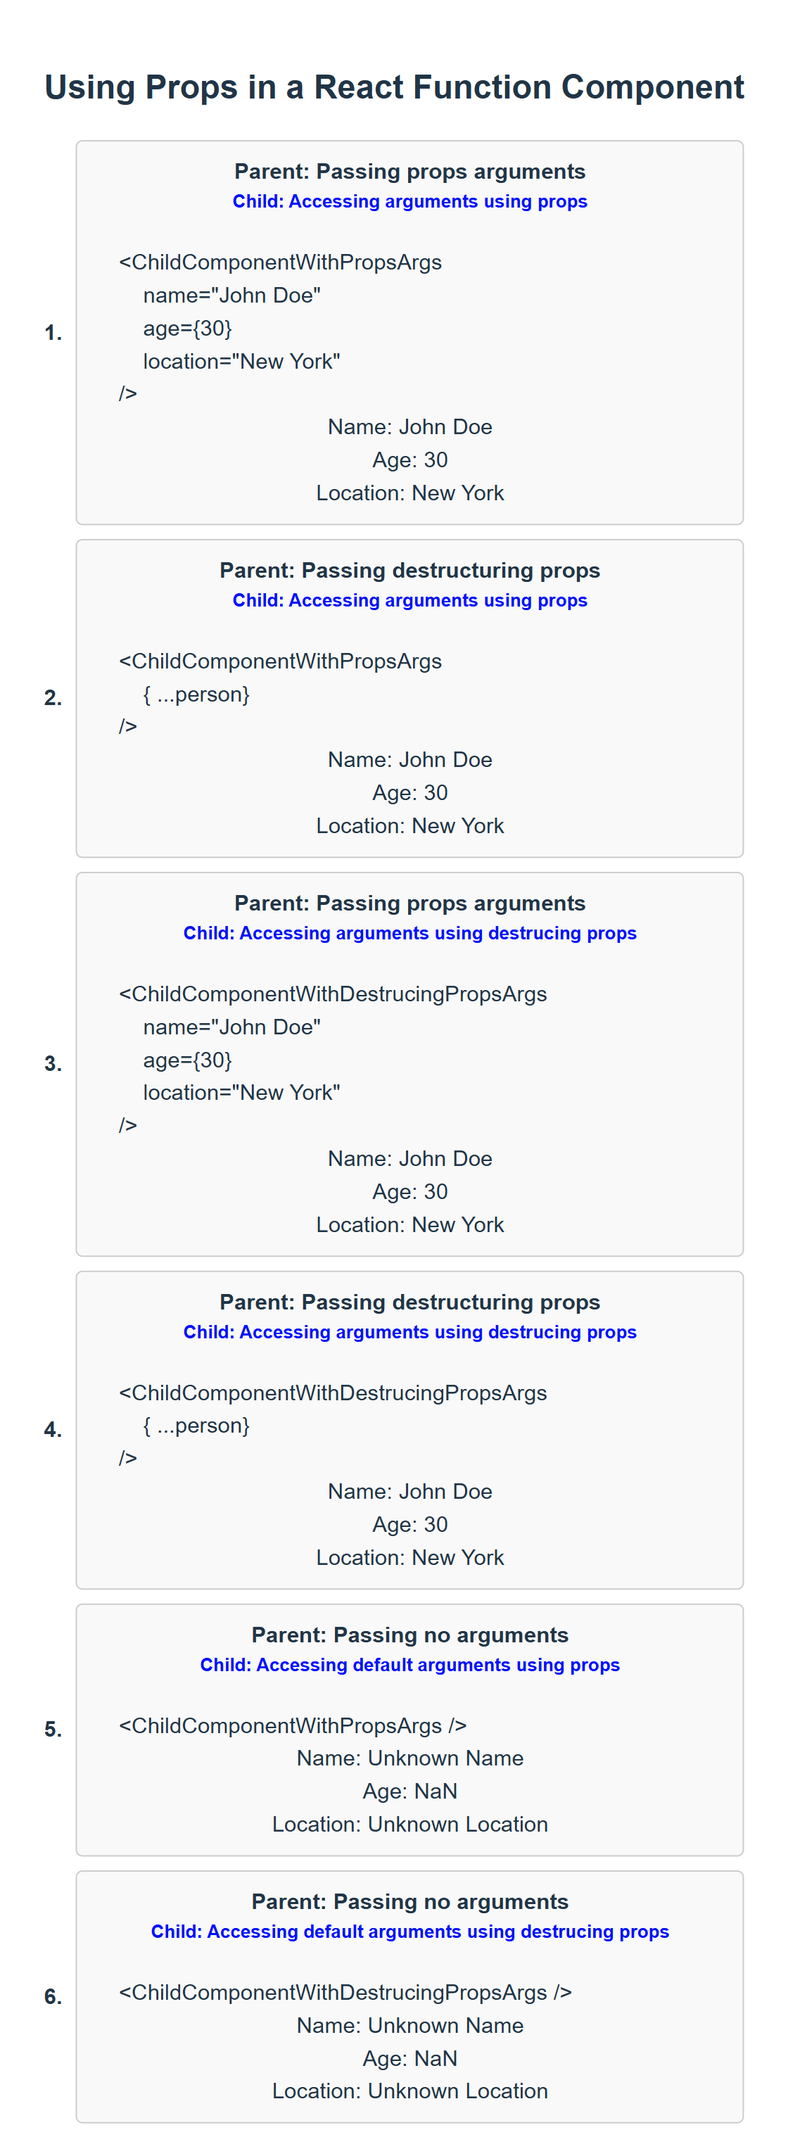
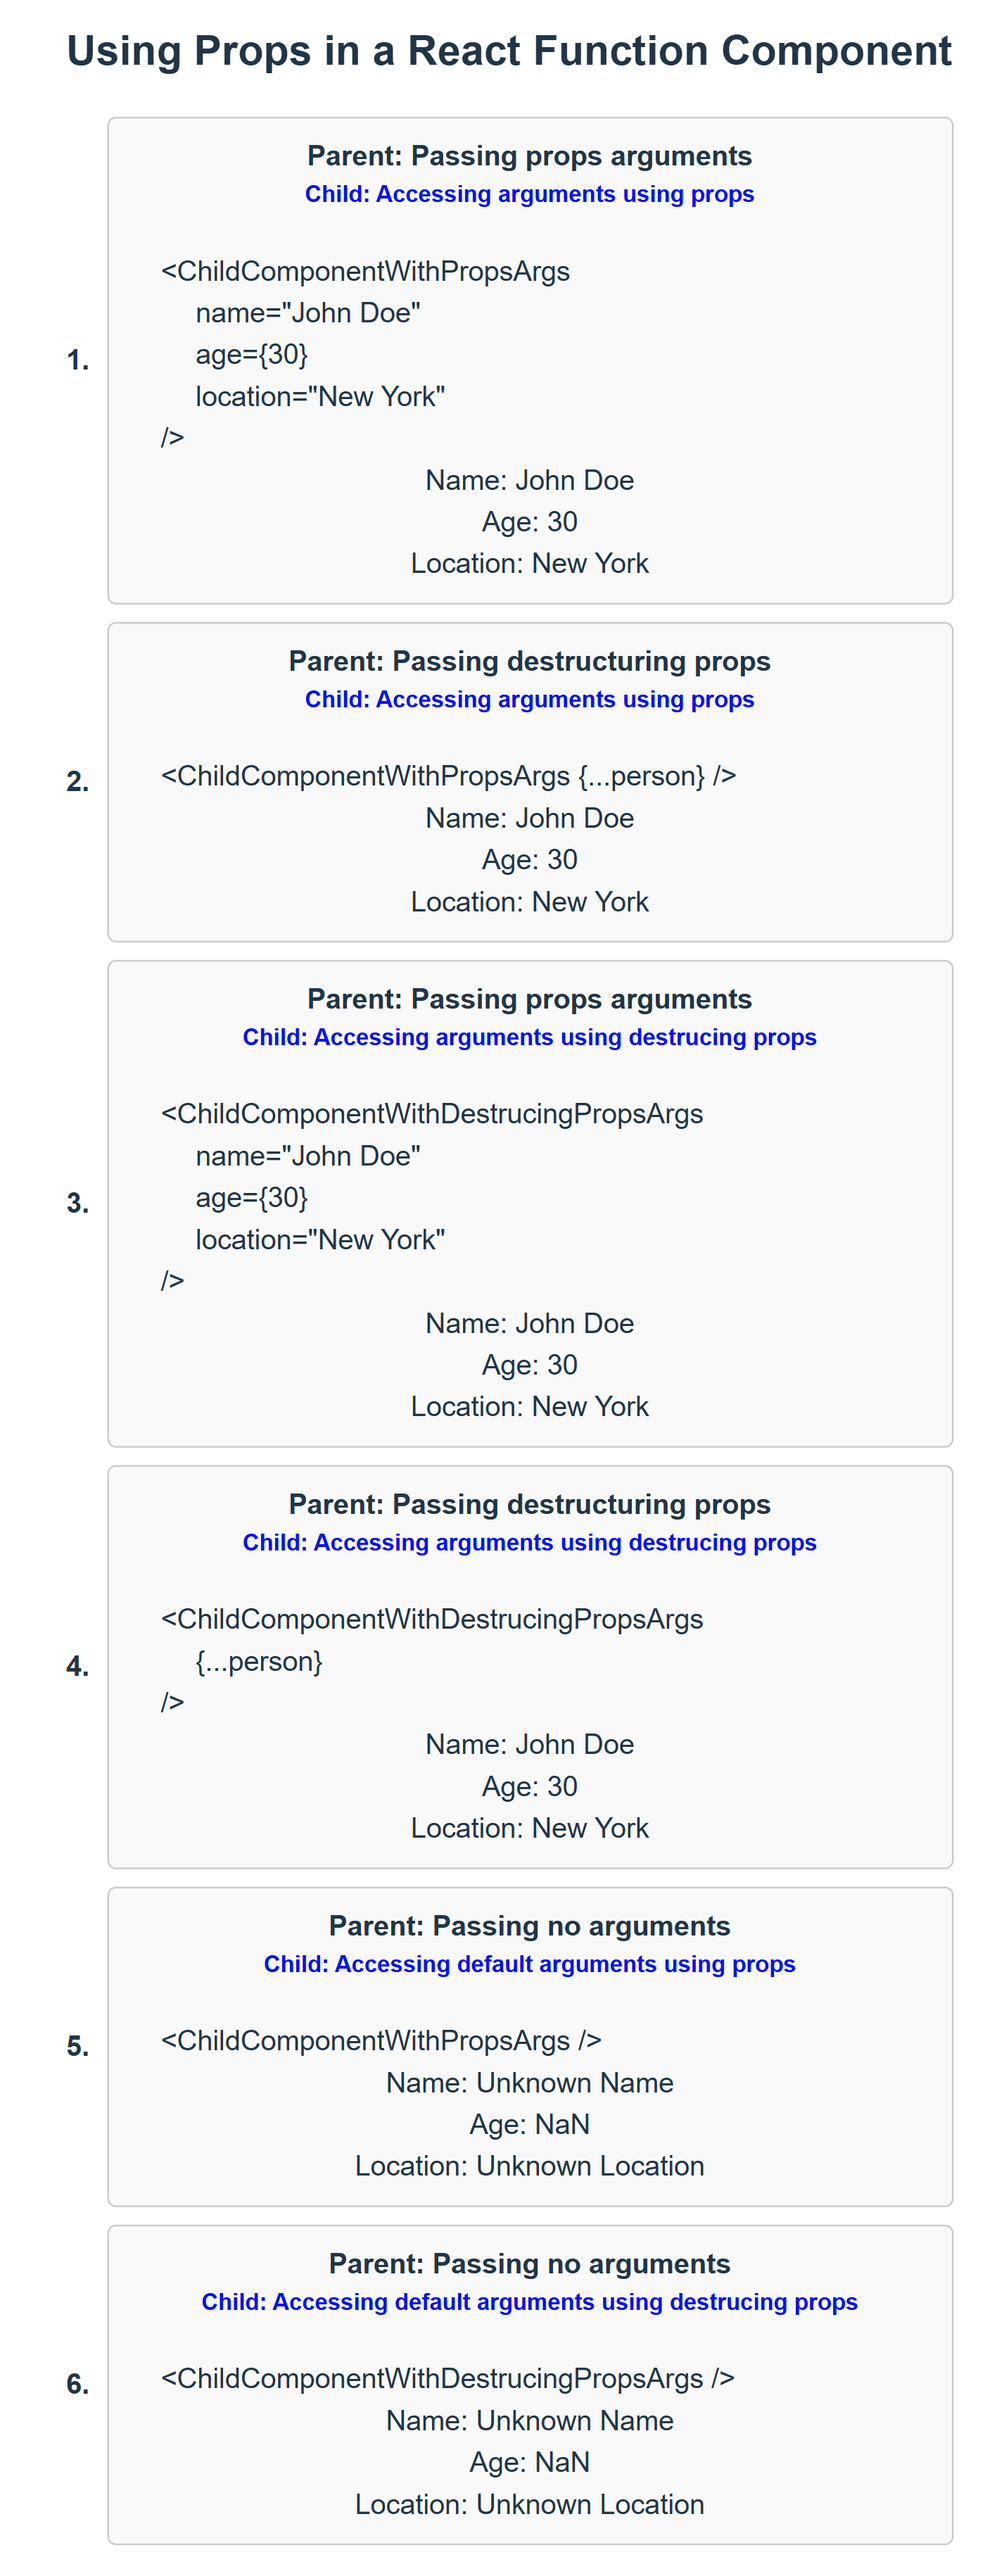
Add files via upload

diff --git a/docs/react-app-ts/tut05-function-components-props.rst b/docs/react-app-ts/tut05-function-components-props.rst
@@ -316,17 +316,17 @@ In React, passing and accessing props in a function component is simple and stra
           
     - Create a parent function Component passing props to its child component
         
-        .. code-block:: cfg
+        .. code-block:: tsx
           :caption: src/FunctionComponentsDisplay.tsx
           :linenos:
           
-          import React from "react";
+          import { FC } from "react";
           import ChildComponentWithDestrucingPropsArgs from "./ChildComponentWithDestrucingPropsArgs";
           import ChildComponentWithPropsArgs from "./ChildComponentWithPropsArgs";
           import Person from "./Person";
           import "./list-style.css";
           
-          const FunctionComponentsDisplay: React.FC = () => {
+          const FunctionComponentsDisplay: FC = () => {
             const person: Person = {
               name: "John Doe",
               age: 30,
@@ -343,15 +343,15 @@ In React, passing and accessing props in a function component is simple and stra
                       <h5 className="blue-color" style={{ marginTop: "0px" }}>
                         Child: Accessing arguments using props
                       </h5>
-          
                       <div style={{ textAlign: "left", paddingLeft: "20px" }}>
-                        &lt;ChildComponentWithPropsArgs <br />
-                        &nbsp;&nbsp;&nbsp;&nbsp;name=&quot;John Doe&quot; <br />
-                        &nbsp;&nbsp;&nbsp;&nbsp;age=&#123;30&#125; <br />
-                        &nbsp;&nbsp;&nbsp;&nbsp;location=&quot;New York&quot; <br />
-                        /&gt;
+                        <div>{`<ChildComponentWithPropsArgs`}</div>
+                        <div style={{ textAlign: "left", marginLeft: "20px" }}>
+                          <div>{`name="John Doe"`}</div>
+                          <div>{`age={30}`}</div>
+                          <div>{`location="New York"`}</div>
+                        </div>
+                        <div>{`/>`}</div>
                       </div>
-          
                       <div>
                         <ChildComponentWithPropsArgs
                           name="John Doe"
@@ -368,13 +368,9 @@ In React, passing and accessing props in a function component is simple and stra
                       <h5 className="blue-color" style={{ marginTop: "0px" }}>
                         Child: Accessing arguments using props
                       </h5>
-          
                       <div style={{ textAlign: "left", paddingLeft: "20px" }}>
-                        &lt;ChildComponentWithPropsArgs <br />
-                        &nbsp;&nbsp;&nbsp;&nbsp;&#123; ...person&#125; <br />
-                        /&gt;
+                        <div>{`<ChildComponentWithPropsArgs {...person} />`}</div>
                       </div>
-          
                       <div>
                         <ChildComponentWithPropsArgs {...person} />
                       </div>
@@ -387,15 +383,15 @@ In React, passing and accessing props in a function component is simple and stra
                       <h5 className="blue-color" style={{ marginTop: "0px" }}>
                         Child: Accessing arguments using destrucing props
                       </h5>
-          
                       <div style={{ textAlign: "left", paddingLeft: "20px" }}>
-                        &lt;ChildComponentWithDestrucingPropsArgs <br />
-                        &nbsp;&nbsp;&nbsp;&nbsp;name=&quot;John Doe&quot; <br />
-                        &nbsp;&nbsp;&nbsp;&nbsp;age=&#123;30&#125; <br />
-                        &nbsp;&nbsp;&nbsp;&nbsp;location=&quot;New York&quot; <br />
-                        /&gt;
+                        <div>{`<ChildComponentWithDestrucingPropsArgs`}</div>
+                        <div style={{ textAlign: "left", marginLeft: "20px" }}>
+                          <div>{`name="John Doe"`}</div>
+                          <div>{`age={30}`}</div>
+                          <div>{`location="New York"`}</div>
+                        </div>
+                        <div>{`/>`}</div>
                       </div>
-          
                       <div>
                         <ChildComponentWithDestrucingPropsArgs
                           name="John Doe"
@@ -412,13 +408,13 @@ In React, passing and accessing props in a function component is simple and stra
                       <h5 className="blue-color" style={{ marginTop: "0px" }}>
                         Child: Accessing arguments using destrucing props
                       </h5>
-          
                       <div style={{ textAlign: "left", paddingLeft: "20px" }}>
-                        &lt;ChildComponentWithDestrucingPropsArgs <br />
-                        &nbsp;&nbsp;&nbsp;&nbsp;&#123; ...person&#125; <br />
-                        /&gt;
+                        <div>{`<ChildComponentWithDestrucingPropsArgs`}</div>
+                        <div style={{ textAlign: "left", marginLeft: "20px" }}>
+                          <div>{`{...person}`}</div>
+                        </div>
+                        <div>{`/>`}</div>
                       </div>
-          
                       <div>
                         <ChildComponentWithDestrucingPropsArgs {...person} />
                       </div>
@@ -433,7 +429,7 @@ In React, passing and accessing props in a function component is simple and stra
                       </h5>
           
                       <div style={{ textAlign: "left", paddingLeft: "20px" }}>
-                        &lt;ChildComponentWithPropsArgs /&gt;
+                        <div>{`<ChildComponentWithPropsArgs />`}</div>
                       </div>
           
                       <div>
@@ -450,7 +446,7 @@ In React, passing and accessing props in a function component is simple and stra
                       </h5>
           
                       <div style={{ textAlign: "left", paddingLeft: "20px" }}>
-                        &lt;ChildComponentWithDestrucingPropsArgs /&gt;
+                        <div>{`<ChildComponentWithDestrucingPropsArgs />`}</div>
                       </div>
           
                       <div>
@@ -464,6 +460,7 @@ In React, passing and accessing props in a function component is simple and stra
           };
           
           export default FunctionComponentsDisplay;
+          
           
 ==================================================================================================
 Render the component

diff --git a/docs/react-app-ts/tut02-writing-markup-with-jsx.rst b/docs/react-app-ts/tut02-writing-markup-with-jsx.rst
@@ -267,7 +267,7 @@ Create Project Contents
         
     - Edit the src/App.tsx file with the following contents
         
-        .. code-block:: cfg
+        .. code-block:: tsx
           :caption: src/App.tsx
           :linenos:
           
@@ -298,89 +298,72 @@ Create Project Contents
                     <div className="list-item-number"></div>
                     <div className="list-item-content">
                       <h3>Return a single root element</h3>
-                      <p>&quot;&lt;&gt;The Rules of JSX&lt;/&gt;&quot;</p>
+                      <div>{"<>The Rules of JSX</>"}</div>
                     </div>
                   </li>
                   <li className="list-item">
                     <div className="list-item-number"></div>
                     <div className="list-item-content">
                       <h3>Attributes in JSX</h3>
-                      <p>&lt;p className=&quot;red-color&quot;&gt;Red&lt;/p&gt;</p>
-                      <p className="red-color">Red</p>
+                      <div>{`<div className="red-color">Red</div>`}</div>
+                      <div className="red-color">Red</div>
                     </div>
                   </li>
                   <li className="list-item">
                     <div className="list-item-number"></div>
                     <div className="list-item-content">
                       <h3>Event Handling</h3>
-                      <p>
-                        &lt;button onClick=&#123;handleClick&#125;&gt;count is
-                        &#123;count&#125;&lt;/button&gt;
-                      </p>
-                      <p>
-                        <button onClick={handleClick}>count is {count}</button>
-                      </p>
+                      <div>{`<button onClick={handleClick}> count is {count} </button>`}</div>
+                      <div>
+                        <button onClick={handleClick}> count is {count} </button>
+                      </div>
                     </div>
                   </li>
                   <li className="list-item">
                     <div className="list-item-number"></div>
                     <div className="list-item-content">
                       <h3>JavaScript Expressions: Attributes</h3>
-                      <p>const classNames=&quot;red-color bg-blue&quot;</p>
-                      <p>&lt;p className=&#123; classNames &#125;&gt;Red&lt;/p&gt;</p>
-                      <p className={classNames}>Red</p>
+                      <div>{`const classNames="red-color bg-blue"`}</div>
+                      <div>{`<div className={ classNames }>Red</div>`}</div>
+                      <div className={classNames}>Red</div>
                     </div>
                   </li>
                   <li className="list-item">
                     <div className="list-item-number"></div>
                     <div className="list-item-content">
                       <h3>JavaScript Expressions: Contents</h3>
-                      <p>const textContent= &quot;JSX Expressions&quot;;</p>
-                      <p>
-                        &lt;p
-                        className=&quot;blue-color&quot;&gt;&#123;textContent&#125;&lt;
-                        /p&gt;
-                      </p>
-                      <p className="blue-color">{textContent}</p>
+                      <div>{`const textContent= "JSX Expressions";`}</div>
+                      <div>{`<div className="blue-color">{textContent}</div>`}</div>
+                      <div className="blue-color">{textContent}</div>
                     </div>
                   </li>
                   <li className="list-item">
                     <div className="list-item-number"></div>
                     <div className="list-item-content">
                       <h3>Inline CSS Styles</h3>
-                      <p>
-                        &lt;p style=&#123;&#123; backgroundColor: &quot;grey&quot;, color:
-                        &quot;blue&quot;
-                        <br /> &#125;&#125; &gt; Grey background with blue text &lt;
-                        /p&gt;
-                      </p>
-                      <p style={{ backgroundColor: "grey", color: "blue" }}>
+                      <div>{`<div style={{ backgroundColor: "grey",color: "blue"}}> `}</div>
+                      <div>{` Grey background with blue text </div>`}</div>
+                      <div style={{ backgroundColor: "grey", color: "blue" }}>
                         Grey background with blue text
-                      </p>
+                      </div>
                     </div>
                   </li>
                   <li className="list-item">
                     <div className="list-item-number"></div>
                     <div className="list-item-content">
                       <h3>JavaScript Objects</h3>
-                      <div style={{ textAlign: "left" }}>
-                        const person = &#123;
-                        <br />
-                        &nbsp;&nbsp;&nbsp;&nbsp;name: &quot;George Bush&quot;,
-                        <br />
-                        &nbsp;&nbsp;&nbsp;&nbsp;theme: &#123;
-                        <br />
-                        &nbsp;&nbsp;&nbsp;&nbsp;backgroundColor: &quot;black&quot;,
-                        <br />
-                        &nbsp;&nbsp;&nbsp;&nbsp;color: &quot;pink&quot;, &#125;
-                        <br />
-                        &#125;;
+                      <div style={{ textAlign: "left", marginLeft: "20px" }}>
+                        <div>{`const person = {`}</div>
+                        <div style={{ textAlign: "left", marginLeft: "20px" }}>
+                          <div>{`name: "George Bush",`}</div>
+                          <div>{`theme: {`}</div>
+                          <div>{`backgroundColor: "black",`}</div>
+                          <div>{`color: "pink", }`}</div>
+                        </div>
+                        <div>{`};`}</div>
                       </div>
-                      <p>
-                        &lt;p style=&#123;person.theme&#125;&gt;&#123;person.name&#125;
-                        &lt;/p&gt;
-                      </p>
-                      <p style={person.theme}>{person.name}</p>
+                      <div>{`<div style={person.theme}>{person.name}</div>`}</div>
+                      <div style={person.theme}>{person.name}</div>
                     </div>
                   </li>
                 </ol>

diff --git a/docs/react-app-ts/tut04-class-components-props.rst b/docs/react-app-ts/tut04-class-components-props.rst
@@ -328,7 +328,7 @@ Passing Props
     
     - Create a parent class Component for passing props
         
-        .. code-block:: cfg
+        .. code-block:: tsx
           :caption: src/ClassComponentsDisplay.tsx
           :linenos:
           
@@ -337,7 +337,6 @@ Passing Props
           import ChildComponentWithDefaultProps from "./ChildComponentWithDefaultProps";
           import Person from "./Person";
           import "./list-style.css";
-          
           class ClassComponentsDisplay extends React.Component {
             render() {
               const person: Person = {
@@ -358,11 +357,13 @@ Passing Props
                         </h5>
           
                         <div style={{ textAlign: "left", paddingLeft: "20px" }}>
-                          &lt;ChildComponentWithPropsArgs <br />
-                          &nbsp;&nbsp;&nbsp;&nbsp;name=&quot;John Doe&quot; <br />
-                          &nbsp;&nbsp;&nbsp;&nbsp;age=&#123;30&#125; <br />
-                          &nbsp;&nbsp;&nbsp;&nbsp;location=&quot;New York&quot; <br />
-                          /&gt;
+                          <div>{`<ChildComponentWithPropsArgs`}</div>
+                          <div style={{ textAlign: "left", marginLeft: "20px" }}>
+                            <div>{`name="John Doe"`}</div>
+                            <div>{`age={30}`}</div>
+                            <div>{`location="New York"`}</div>
+                          </div>
+                          <div>{`/>`}</div>
                         </div>
           
                         <div>
@@ -383,9 +384,7 @@ Passing Props
                         </h5>
           
                         <div style={{ textAlign: "left", paddingLeft: "20px" }}>
-                          &lt;ChildComponentWithPropsArgs <br />
-                          &nbsp;&nbsp;&nbsp;&nbsp;&#123; ...person&#125; <br />
-                          /&gt;
+                          <div>{`<ChildComponentWithPropsArgs {...person} />`}</div>
                         </div>
           
                         <div>
@@ -402,7 +401,7 @@ Passing Props
                         </h5>
           
                         <div style={{ textAlign: "left", paddingLeft: "20px" }}>
-                          &lt;ChildComponentWithPropsArgs /&gt;
+                          <div>{`<ChildComponentWithPropsArgs />`}</div>
                         </div>
           
                         <div>
@@ -419,7 +418,7 @@ Passing Props
                         </h5>
           
                         <div style={{ textAlign: "left", paddingLeft: "20px" }}>
-                          &lt;ChildComponentWithDefaultProps /&gt;
+                          <div>{`<ChildComponentWithDefaultProps />`}</div>
                         </div>
           
                         <div>

diff --git a/docs/react-app-ts/tut05-function-components-event.rst b/docs/react-app-ts/tut05-function-components-event.rst
@@ -410,7 +410,7 @@ Event Handler Using Function Method
     
     Define a Function Component with methods to modify the state data.
         
-        .. code-block:: cfg
+        .. code-block:: tsx
           :caption: src/FunctionComponentWithEventHandlerWithExtraArgs.tsx
           :linenos:
           
@@ -446,7 +446,7 @@ Event Handler Using Function Method
                 message: string;
                 count: number;
               },
-              event: React.MouseEvent<HTMLButtonElement, MouseEvent>,
+              event: React.MouseEvent,
             ) {
               setMessages((prevState) => [
                 ...prevState,
@@ -534,7 +534,7 @@ Event Handler Using Arrow Functions
     
     Define a Function Component with arrow functions to modify the state data..
         
-        .. code-block:: cfg
+        .. code-block:: tsx
           :caption: src/FunctionComponentWithArrowFunctionWithExtraArgs.tsx
           :linenos:
           
@@ -562,14 +562,8 @@ Event Handler Using Arrow Functions
               ]);
             };
             const handleMessagesUpdateClickWithEvent = (
-              {
-                message,
-                count,
-              }: {
-                message: string;
-                count: number;
-              },
-              event: React.MouseEvent<HTMLButtonElement, MouseEvent>,
+              { message, count }: { message: string; count: number },
+              event: React.MouseEvent,
             ) => {
               setMessages((prevState) => [
                 ...prevState,
